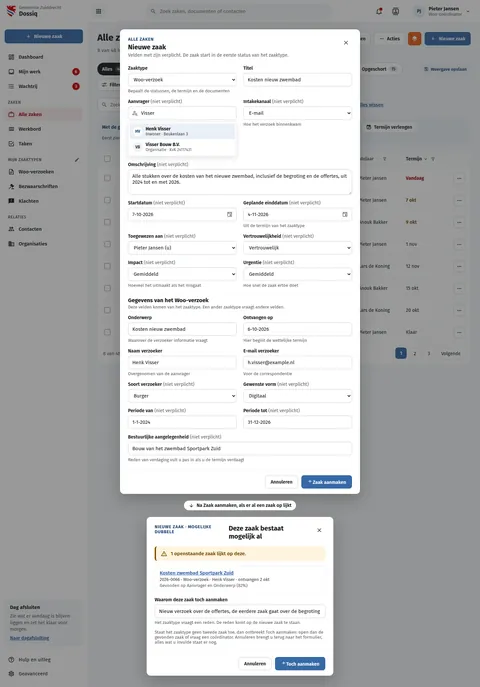
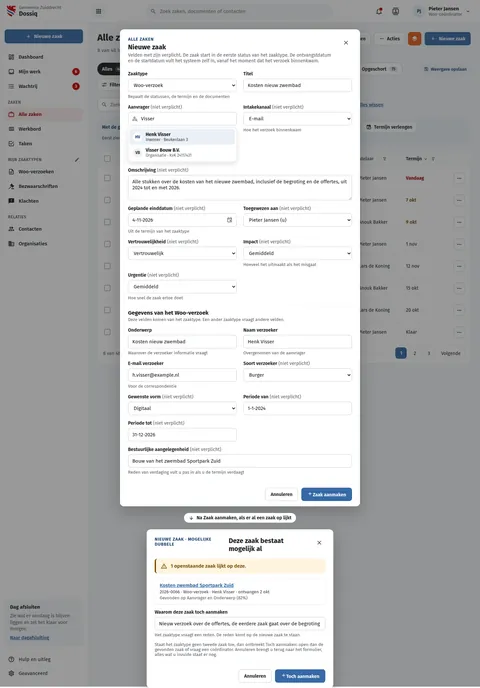
fix(screens): DqNieuweZaak no longer asks the start date or the receipt date (#209)
Ruben's decision of 10 October 2026: dossiq sets both when the case is
created, from the moment the request came in. The dialog drops Startdatum and
the Woo question Ontvangen op, and its intro says the system fills them.

Changed region(s): [[0.0, 0.0611, 1.0, 1.0]]

diff --git a/preview/screens/boards/DqNieuweZaak.html b/preview/screens/boards/DqNieuweZaak.html
@@ -328,7 +328,7 @@ a{color:var(--sc-primary, #3669a5)}a:hover{color:var(--sc-primary-deep, #234a78)
   <div style="position: absolute; inset: 0; background: rgba(27,28,29,0.45); display: flex; flex-direction: column; align-items: center; gap: 20px; padding: 88px 16px 24px; box-sizing: border-box">
     <div role="dialog" aria-modal="true" aria-labelledby="nz-titel-dlg" style="width: 100%; max-width: 720px; background: #ffffff; border-radius: 12px; box-shadow: 0 16px 48px rgba(27,28,29,0.28); display: flex; flex-direction: column">
       <div style="display: flex; justify-content: space-between; align-items: flex-start; gap: 16px; padding: 22px 24px 4px">
-        <div style="display: flex; flex-direction: column; gap: 4px"><span style="font-size: 13px; font-weight: 700; letter-spacing: 0.06em; text-transform: uppercase; color: var(--sc-primary-deep, #234a78)">Alle zaken</span><h2 id="nz-titel-dlg" style="margin: 0; font-size: 20px; font-weight: 700">Nieuwe zaak</h2><span style="font-size: 14px; color: var(--sc-work-muted, #5e6168)">Velden met  zijn verplicht. De zaak start in de eerste status van het zaaktype.</span></div>
+        <div style="display: flex; flex-direction: column; gap: 4px"><span style="font-size: 13px; font-weight: 700; letter-spacing: 0.06em; text-transform: uppercase; color: var(--sc-primary-deep, #234a78)">Alle zaken</span><h2 id="nz-titel-dlg" style="margin: 0; font-size: 20px; font-weight: 700">Nieuwe zaak</h2><span style="font-size: 14px; color: var(--sc-work-muted, #5e6168)">Velden met  zijn verplicht. De zaak start in de eerste status van het zaaktype. De ontvangstdatum en de startdatum vult het systeem zelf in, vanaf het moment dat het verzoek binnenkwam.</span></div>
         <button type="button" aria-label="Sluiten" style="flex: none; width: 36px; height: 36px; display: inline-flex; align-items: center; justify-content: center; border: 0; border-radius: 18px; background: transparent; color: var(--sc-work-text, #3d4047)"><svg width="20" height="20" viewbox="0 0 24 24" fill="currentColor"><path d="M19,6.41L17.59,5L12,10.59L6.41,5L5,6.41L10.59,12L5,17.59L6.41,19L12,13.41L17.59,19L19,17.59L13.41,12L19,6.41Z"></path></svg></button>
       </div>
       <form style="display: grid; grid-template-columns: repeat(auto-fit, minmax(260px, 1fr)); gap: 16px 20px; padding: 18px 24px 22px; align-items: start">
@@ -342,7 +342,6 @@ a{color:var(--sc-primary, #3669a5)}a:hover{color:var(--sc-primary-deep, #234a78)
                 </div>
                 <div style="display: flex; flex-direction: column; gap: 6px; min-width: 0"><label for="nz-kanaal" style="font-size: 14px; font-weight: 600">Intakekanaal<span style="font-weight: 400; color: var(--sc-work-muted, #5e6168)"> (niet verplicht)</span></label><select id="nz-kanaal" style="box-sizing: border-box; width: 100%; height: 40px; padding: 0 12px; border: 1px solid var(--sc-work-field, #c4c7cb); border-radius: 8px; background: #ffffff; font: 400 15px var(--sc-font, 'Fira Sans'), sans-serif; color: var(--sc-work-ink, #1b1c1d)"><option>Handmatig</option><option>Balie</option><option>Telefoon</option><option selected>E-mail</option><option>Post</option><option>Website</option><option>Anders</option></select><span style="font-size: 13px; color: var(--sc-work-muted, #5e6168)">Hoe het verzoek binnenkwam</span></div>
                 <div style="display: flex; flex-direction: column; gap: 6px; min-width: 0; grid-column: 1 / -1"><label for="nz-omschrijving" style="font-size: 14px; font-weight: 600">Omschrijving<span style="font-weight: 400; color: var(--sc-work-muted, #5e6168)"> (niet verplicht)</span></label><textarea id="nz-omschrijving" rows="3" style="box-sizing: border-box; width: 100%; padding: 10px 12px; border: 1px solid var(--sc-work-field, #c4c7cb); border-radius: 8px; font: 400 15px var(--sc-font, 'Fira Sans'), sans-serif; color: var(--sc-work-ink, #1b1c1d); resize: vertical">Alle stukken over de kosten van het nieuwe zwembad, inclusief de begroting en de offertes, uit 2024 tot en met 2026.</textarea></div>
-                <div style="display: flex; flex-direction: column; gap: 6px; min-width: 0"><label for="nz-start" style="font-size: 14px; font-weight: 600">Startdatum<span style="font-weight: 400; color: var(--sc-work-muted, #5e6168)"> (niet verplicht)</span></label><span style="position: relative; display: block"><input id="nz-start" type="text" value="7-10-2026" placeholder="" style="box-sizing: border-box; width: 100%; height: 40px; padding: 0 12px; border: 1px solid var(--sc-work-field, #c4c7cb); border-radius: 8px; background: #ffffff; font: 400 15px var(--sc-font, 'Fira Sans'), sans-serif; color: var(--sc-work-ink, #1b1c1d); padding-right: 40px"><svg width="18" height="18" viewbox="0 0 24 24" fill="#5e6168" style="position: absolute; right: 12px; top: 11px;fill:var(--sc-work-muted, #5e6168)" aria-hidden="true"><path d="M12 12H17V17H12V12M19 3H18V1H16V3H8V1H6V3H5C3.9 3 3 3.9 3 5V19C3 20.1 3.9 21 5 21H19C20.1 21 21 20.1 21 19V5C21 3.9 20.1 3 19 3M19 5V7H5V5H19M5 19V9H19V19H5Z"></path></svg></span></div>
                 <div style="display: flex; flex-direction: column; gap: 6px; min-width: 0"><label for="nz-eind" style="font-size: 14px; font-weight: 600">Geplande einddatum<span style="font-weight: 400; color: var(--sc-work-muted, #5e6168)"> (niet verplicht)</span></label><span style="position: relative; display: block"><input id="nz-eind" type="text" value="4-11-2026" placeholder="" style="box-sizing: border-box; width: 100%; height: 40px; padding: 0 12px; border: 1px solid var(--sc-work-field, #c4c7cb); border-radius: 8px; background: #ffffff; font: 400 15px var(--sc-font, 'Fira Sans'), sans-serif; color: var(--sc-work-ink, #1b1c1d); padding-right: 40px"><svg width="18" height="18" viewbox="0 0 24 24" fill="#5e6168" style="position: absolute; right: 12px; top: 11px;fill:var(--sc-work-muted, #5e6168)" aria-hidden="true"><path d="M12 12H17V17H12V12M19 3H18V1H16V3H8V1H6V3H5C3.9 3 3 3.9 3 5V19C3 20.1 3.9 21 5 21H19C20.1 21 21 20.1 21 19V5C21 3.9 20.1 3 19 3M19 5V7H5V5H19M5 19V9H19V19H5Z"></path></svg></span><span style="font-size: 13px; color: var(--sc-work-muted, #5e6168)">Uit de termijn van het zaaktype</span></div>
                 <div style="display: flex; flex-direction: column; gap: 6px; min-width: 0"><label for="nz-beh" style="font-size: 14px; font-weight: 600">Toegewezen aan<span style="font-weight: 400; color: var(--sc-work-muted, #5e6168)"> (niet verplicht)</span></label><select id="nz-beh" style="box-sizing: border-box; width: 100%; height: 40px; padding: 0 12px; border: 1px solid var(--sc-work-field, #c4c7cb); border-radius: 8px; background: #ffffff; font: 400 15px var(--sc-font, 'Fira Sans'), sans-serif; color: var(--sc-work-ink, #1b1c1d)"><option selected>Pieter Jansen (u)</option><option>Niemand, naar de wachtrij</option><option>Anouk Bakker</option><option>Lars de Koning</option></select></div>
                 <div style="display: flex; flex-direction: column; gap: 6px; min-width: 0"><label for="nz-vertr" style="font-size: 14px; font-weight: 600">Vertrouwelijkheid<span style="font-weight: 400; color: var(--sc-work-muted, #5e6168)"> (niet verplicht)</span></label><select id="nz-vertr" style="box-sizing: border-box; width: 100%; height: 40px; padding: 0 12px; border: 1px solid var(--sc-work-field, #c4c7cb); border-radius: 8px; background: #ffffff; font: 400 15px var(--sc-font, 'Fira Sans'), sans-serif; color: var(--sc-work-ink, #1b1c1d)"><option>Openbaar</option><option>Beperkt openbaar</option><option>Intern</option><option>Zaakvertrouwelijk</option><option selected>Vertrouwelijk</option><option>Confidentieel</option><option>Geheim</option><option>Zeer geheim</option></select></div>
@@ -350,7 +349,6 @@ a{color:var(--sc-primary, #3669a5)}a:hover{color:var(--sc-primary-deep, #234a78)
                 <div style="display: flex; flex-direction: column; gap: 6px; min-width: 0"><label for="nz-urg" style="font-size: 14px; font-weight: 600">Urgentie<span style="font-weight: 400; color: var(--sc-work-muted, #5e6168)"> (niet verplicht)</span></label><select id="nz-urg" style="box-sizing: border-box; width: 100%; height: 40px; padding: 0 12px; border: 1px solid var(--sc-work-field, #c4c7cb); border-radius: 8px; background: #ffffff; font: 400 15px var(--sc-font, 'Fira Sans'), sans-serif; color: var(--sc-work-ink, #1b1c1d)"><option>Laag</option><option selected>Gemiddeld</option><option>Hoog</option></select><span style="font-size: 13px; color: var(--sc-work-muted, #5e6168)">Hoe snel de zaak ertoe doet</span></div>
                 <div style="grid-column: 1 / -1; display: flex; flex-direction: column; gap: 2px; padding-top: 10px; border-top: 1px solid var(--sc-work-soft, #eef0f3)"><h3 style="margin: 0; font-size: 17px; font-weight: 700">Gegevens van het Woo-verzoek</h3><span style="font-size: 13px; color: var(--sc-work-muted, #5e6168)">Deze velden komen van het zaaktype. Een ander zaaktype vraagt andere velden.</span></div>
                 <div style="display: flex; flex-direction: column; gap: 6px; min-width: 0"><label for="nz-onderwerp" style="font-size: 14px; font-weight: 600">Onderwerp</label><input id="nz-onderwerp" type="text" value="Kosten nieuw zwembad" required style="box-sizing: border-box; width: 100%; height: 40px; padding: 0 12px; border: 1px solid var(--sc-work-field, #c4c7cb); border-radius: 8px; background: #ffffff; font: 400 15px var(--sc-font, 'Fira Sans'), sans-serif; color: var(--sc-work-ink, #1b1c1d)"><span style="font-size: 13px; color: var(--sc-work-muted, #5e6168)">Waarover de verzoeker informatie vraagt</span></div>
-                <div style="display: flex; flex-direction: column; gap: 6px; min-width: 0"><label for="nz-ontvangen" style="font-size: 14px; font-weight: 600">Ontvangen op</label><input id="nz-ontvangen" type="text" value="6-10-2026" required style="box-sizing: border-box; width: 100%; height: 40px; padding: 0 12px; border: 1px solid var(--sc-work-field, #c4c7cb); border-radius: 8px; background: #ffffff; font: 400 15px var(--sc-font, 'Fira Sans'), sans-serif; color: var(--sc-work-ink, #1b1c1d)"><span style="font-size: 13px; color: var(--sc-work-muted, #5e6168)">Hier begint de wettelijke termijn</span></div>
                 <div style="display: flex; flex-direction: column; gap: 6px; min-width: 0"><label for="nz-vnaam" style="font-size: 14px; font-weight: 600">Naam verzoeker</label><input id="nz-vnaam" type="text" value="Henk Visser" required style="box-sizing: border-box; width: 100%; height: 40px; padding: 0 12px; border: 1px solid var(--sc-work-field, #c4c7cb); border-radius: 8px; background: #ffffff; font: 400 15px var(--sc-font, 'Fira Sans'), sans-serif; color: var(--sc-work-ink, #1b1c1d)"><span style="font-size: 13px; color: var(--sc-work-muted, #5e6168)">Overgenomen van de aanvrager</span></div>
                 <div style="display: flex; flex-direction: column; gap: 6px; min-width: 0"><label for="nz-vmail" style="font-size: 14px; font-weight: 600">E-mail verzoeker</label><input id="nz-vmail" type="email" value="h.visser@example.nl" required style="box-sizing: border-box; width: 100%; height: 40px; padding: 0 12px; border: 1px solid var(--sc-work-field, #c4c7cb); border-radius: 8px; background: #ffffff; font: 400 15px var(--sc-font, 'Fira Sans'), sans-serif; color: var(--sc-work-ink, #1b1c1d)"><span style="font-size: 13px; color: var(--sc-work-muted, #5e6168)">Voor de correspondentie</span></div>
                 <div style="display: flex; flex-direction: column; gap: 6px; min-width: 0"><label for="nz-vtype" style="font-size: 14px; font-weight: 600">Soort verzoeker<span style="font-weight: 400; color: var(--sc-work-muted, #5e6168)"> (niet verplicht)</span></label><select id="nz-vtype" style="box-sizing: border-box; width: 100%; height: 40px; padding: 0 12px; border: 1px solid var(--sc-work-field, #c4c7cb); border-radius: 8px; background: #ffffff; font: 400 15px var(--sc-font, 'Fira Sans'), sans-serif; color: var(--sc-work-ink, #1b1c1d)"><option selected>Burger</option><option>Journalist</option><option>Organisatie</option></select></div>

diff --git a/screens-src/zuiddrecht/DqNieuweZaak.dc.html b/screens-src/zuiddrecht/DqNieuweZaak.dc.html
@@ -103,7 +103,7 @@ a{color:#3669a5}a:hover{color:#234a78}
   <div style="position: absolute; inset: 0; background: rgba(27,28,29,0.45); display: flex; flex-direction: column; align-items: center; gap: 20px; padding: 88px 16px 24px; box-sizing: border-box">
     <div role="dialog" aria-modal="true" aria-labelledby="nz-titel-dlg" style="width: 100%; max-width: 720px; background: #ffffff; border-radius: 12px; box-shadow: 0 16px 48px rgba(27,28,29,0.28); display: flex; flex-direction: column">
       <div style="display: flex; justify-content: space-between; align-items: flex-start; gap: 16px; padding: 22px 24px 4px">
-        <div style="display: flex; flex-direction: column; gap: 4px"><span style="font-size: 13px; font-weight: 700; letter-spacing: 0.06em; text-transform: uppercase; color: #234a78">Alle zaken</span><h2 id="nz-titel-dlg" style="margin: 0; font-size: 20px; font-weight: 700">Nieuwe zaak</h2><span style="font-size: 14px; color: #5e6168">Velden met  zijn verplicht. De zaak start in de eerste status van het zaaktype.</span></div>
+        <div style="display: flex; flex-direction: column; gap: 4px"><span style="font-size: 13px; font-weight: 700; letter-spacing: 0.06em; text-transform: uppercase; color: #234a78">Alle zaken</span><h2 id="nz-titel-dlg" style="margin: 0; font-size: 20px; font-weight: 700">Nieuwe zaak</h2><span style="font-size: 14px; color: #5e6168">Velden met  zijn verplicht. De zaak start in de eerste status van het zaaktype. De ontvangstdatum en de startdatum vult het systeem zelf in, vanaf het moment dat het verzoek binnenkwam.</span></div>
         <button type="button" aria-label="Sluiten" style="flex: none; width: 36px; height: 36px; display: inline-flex; align-items: center; justify-content: center; border: 0; border-radius: 18px; background: transparent; color: #3d4047"><svg width="20" height="20" viewBox="0 0 24 24" fill="currentColor"><path d="M19,6.41L17.59,5L12,10.59L6.41,5L5,6.41L10.59,12L5,17.59L6.41,19L12,13.41L17.59,19L19,17.59L13.41,12L19,6.41Z"></path></svg></button>
       </div>
       <form style="display: grid; grid-template-columns: repeat(auto-fit, minmax(260px, 1fr)); gap: 16px 20px; padding: 18px 24px 22px; align-items: start">
@@ -117,7 +117,6 @@ a{color:#3669a5}a:hover{color:#234a78}
                 </div>
                 <div style="display: flex; flex-direction: column; gap: 6px; min-width: 0"><label for="nz-kanaal" style="font-size: 14px; font-weight: 600">Intakekanaal<span style="font-weight: 400; color: #5e6168"> (niet verplicht)</span></label><select id="nz-kanaal" style="box-sizing: border-box; width: 100%; height: 40px; padding: 0 12px; border: 1px solid #c4c7cb; border-radius: 8px; background: #ffffff; font: 400 15px 'Fira Sans', sans-serif; color: #1b1c1d"><option>Handmatig</option><option>Balie</option><option>Telefoon</option><option selected>E-mail</option><option>Post</option><option>Website</option><option>Anders</option></select><span style="font-size: 13px; color: #5e6168">Hoe het verzoek binnenkwam</span></div>
                 <div style="display: flex; flex-direction: column; gap: 6px; min-width: 0; grid-column: 1 / -1"><label for="nz-omschrijving" style="font-size: 14px; font-weight: 600">Omschrijving<span style="font-weight: 400; color: #5e6168"> (niet verplicht)</span></label><textarea id="nz-omschrijving" rows="3" style="box-sizing: border-box; width: 100%; padding: 10px 12px; border: 1px solid #c4c7cb; border-radius: 8px; font: 400 15px 'Fira Sans', sans-serif; color: #1b1c1d; resize: vertical">Alle stukken over de kosten van het nieuwe zwembad, inclusief de begroting en de offertes, uit 2024 tot en met 2026.</textarea></div>
-                <div style="display: flex; flex-direction: column; gap: 6px; min-width: 0"><label for="nz-start" style="font-size: 14px; font-weight: 600">Startdatum<span style="font-weight: 400; color: #5e6168"> (niet verplicht)</span></label><span style="position: relative; display: block"><input id="nz-start" type="text" value="7-10-2026" placeholder="" style="box-sizing: border-box; width: 100%; height: 40px; padding: 0 12px; border: 1px solid #c4c7cb; border-radius: 8px; background: #ffffff; font: 400 15px 'Fira Sans', sans-serif; color: #1b1c1d; padding-right: 40px"><svg width="18" height="18" viewBox="0 0 24 24" fill="#5e6168" style="position: absolute; right: 12px; top: 11px" aria-hidden="true"><path d="M12 12H17V17H12V12M19 3H18V1H16V3H8V1H6V3H5C3.9 3 3 3.9 3 5V19C3 20.1 3.9 21 5 21H19C20.1 21 21 20.1 21 19V5C21 3.9 20.1 3 19 3M19 5V7H5V5H19M5 19V9H19V19H5Z"></path></svg></span></div>
                 <div style="display: flex; flex-direction: column; gap: 6px; min-width: 0"><label for="nz-eind" style="font-size: 14px; font-weight: 600">Geplande einddatum<span style="font-weight: 400; color: #5e6168"> (niet verplicht)</span></label><span style="position: relative; display: block"><input id="nz-eind" type="text" value="4-11-2026" placeholder="" style="box-sizing: border-box; width: 100%; height: 40px; padding: 0 12px; border: 1px solid #c4c7cb; border-radius: 8px; background: #ffffff; font: 400 15px 'Fira Sans', sans-serif; color: #1b1c1d; padding-right: 40px"><svg width="18" height="18" viewBox="0 0 24 24" fill="#5e6168" style="position: absolute; right: 12px; top: 11px" aria-hidden="true"><path d="M12 12H17V17H12V12M19 3H18V1H16V3H8V1H6V3H5C3.9 3 3 3.9 3 5V19C3 20.1 3.9 21 5 21H19C20.1 21 21 20.1 21 19V5C21 3.9 20.1 3 19 3M19 5V7H5V5H19M5 19V9H19V19H5Z"></path></svg></span><span style="font-size: 13px; color: #5e6168">Uit de termijn van het zaaktype</span></div>
                 <div style="display: flex; flex-direction: column; gap: 6px; min-width: 0"><label for="nz-beh" style="font-size: 14px; font-weight: 600">Toegewezen aan<span style="font-weight: 400; color: #5e6168"> (niet verplicht)</span></label><select id="nz-beh" style="box-sizing: border-box; width: 100%; height: 40px; padding: 0 12px; border: 1px solid #c4c7cb; border-radius: 8px; background: #ffffff; font: 400 15px 'Fira Sans', sans-serif; color: #1b1c1d"><option selected>Pieter Jansen (u)</option><option>Niemand, naar de wachtrij</option><option>Anouk Bakker</option><option>Lars de Koning</option></select></div>
                 <div style="display: flex; flex-direction: column; gap: 6px; min-width: 0"><label for="nz-vertr" style="font-size: 14px; font-weight: 600">Vertrouwelijkheid<span style="font-weight: 400; color: #5e6168"> (niet verplicht)</span></label><select id="nz-vertr" style="box-sizing: border-box; width: 100%; height: 40px; padding: 0 12px; border: 1px solid #c4c7cb; border-radius: 8px; background: #ffffff; font: 400 15px 'Fira Sans', sans-serif; color: #1b1c1d"><option>Openbaar</option><option>Beperkt openbaar</option><option>Intern</option><option>Zaakvertrouwelijk</option><option selected>Vertrouwelijk</option><option>Confidentieel</option><option>Geheim</option><option>Zeer geheim</option></select></div>
@@ -125,7 +124,6 @@ a{color:#3669a5}a:hover{color:#234a78}
                 <div style="display: flex; flex-direction: column; gap: 6px; min-width: 0"><label for="nz-urg" style="font-size: 14px; font-weight: 600">Urgentie<span style="font-weight: 400; color: #5e6168"> (niet verplicht)</span></label><select id="nz-urg" style="box-sizing: border-box; width: 100%; height: 40px; padding: 0 12px; border: 1px solid #c4c7cb; border-radius: 8px; background: #ffffff; font: 400 15px 'Fira Sans', sans-serif; color: #1b1c1d"><option>Laag</option><option selected>Gemiddeld</option><option>Hoog</option></select><span style="font-size: 13px; color: #5e6168">Hoe snel de zaak ertoe doet</span></div>
                 <div style="grid-column: 1 / -1; display: flex; flex-direction: column; gap: 2px; padding-top: 10px; border-top: 1px solid #eef0f3"><h3 style="margin: 0; font-size: 17px; font-weight: 700">Gegevens van het Woo-verzoek</h3><span style="font-size: 13px; color: #5e6168">Deze velden komen van het zaaktype. Een ander zaaktype vraagt andere velden.</span></div>
                 <div style="display: flex; flex-direction: column; gap: 6px; min-width: 0"><label for="nz-onderwerp" style="font-size: 14px; font-weight: 600">Onderwerp</label><input id="nz-onderwerp" type="text" value="Kosten nieuw zwembad" required style="box-sizing: border-box; width: 100%; height: 40px; padding: 0 12px; border: 1px solid #c4c7cb; border-radius: 8px; background: #ffffff; font: 400 15px 'Fira Sans', sans-serif; color: #1b1c1d"><span style="font-size: 13px; color: #5e6168">Waarover de verzoeker informatie vraagt</span></div>
-                <div style="display: flex; flex-direction: column; gap: 6px; min-width: 0"><label for="nz-ontvangen" style="font-size: 14px; font-weight: 600">Ontvangen op</label><input id="nz-ontvangen" type="text" value="6-10-2026" required style="box-sizing: border-box; width: 100%; height: 40px; padding: 0 12px; border: 1px solid #c4c7cb; border-radius: 8px; background: #ffffff; font: 400 15px 'Fira Sans', sans-serif; color: #1b1c1d"><span style="font-size: 13px; color: #5e6168">Hier begint de wettelijke termijn</span></div>
                 <div style="display: flex; flex-direction: column; gap: 6px; min-width: 0"><label for="nz-vnaam" style="font-size: 14px; font-weight: 600">Naam verzoeker</label><input id="nz-vnaam" type="text" value="Henk Visser" required style="box-sizing: border-box; width: 100%; height: 40px; padding: 0 12px; border: 1px solid #c4c7cb; border-radius: 8px; background: #ffffff; font: 400 15px 'Fira Sans', sans-serif; color: #1b1c1d"><span style="font-size: 13px; color: #5e6168">Overgenomen van de aanvrager</span></div>
                 <div style="display: flex; flex-direction: column; gap: 6px; min-width: 0"><label for="nz-vmail" style="font-size: 14px; font-weight: 600">E-mail verzoeker</label><input id="nz-vmail" type="email" value="h.visser@example.nl" required style="box-sizing: border-box; width: 100%; height: 40px; padding: 0 12px; border: 1px solid #c4c7cb; border-radius: 8px; background: #ffffff; font: 400 15px 'Fira Sans', sans-serif; color: #1b1c1d"><span style="font-size: 13px; color: #5e6168">Voor de correspondentie</span></div>
                 <div style="display: flex; flex-direction: column; gap: 6px; min-width: 0"><label for="nz-vtype" style="font-size: 14px; font-weight: 600">Soort verzoeker<span style="font-weight: 400; color: #5e6168"> (niet verplicht)</span></label><select id="nz-vtype" style="box-sizing: border-box; width: 100%; height: 40px; padding: 0 12px; border: 1px solid #c4c7cb; border-radius: 8px; background: #ffffff; font: 400 15px 'Fira Sans', sans-serif; color: #1b1c1d"><option selected>Burger</option><option>Journalist</option><option>Organisatie</option></select></div>
